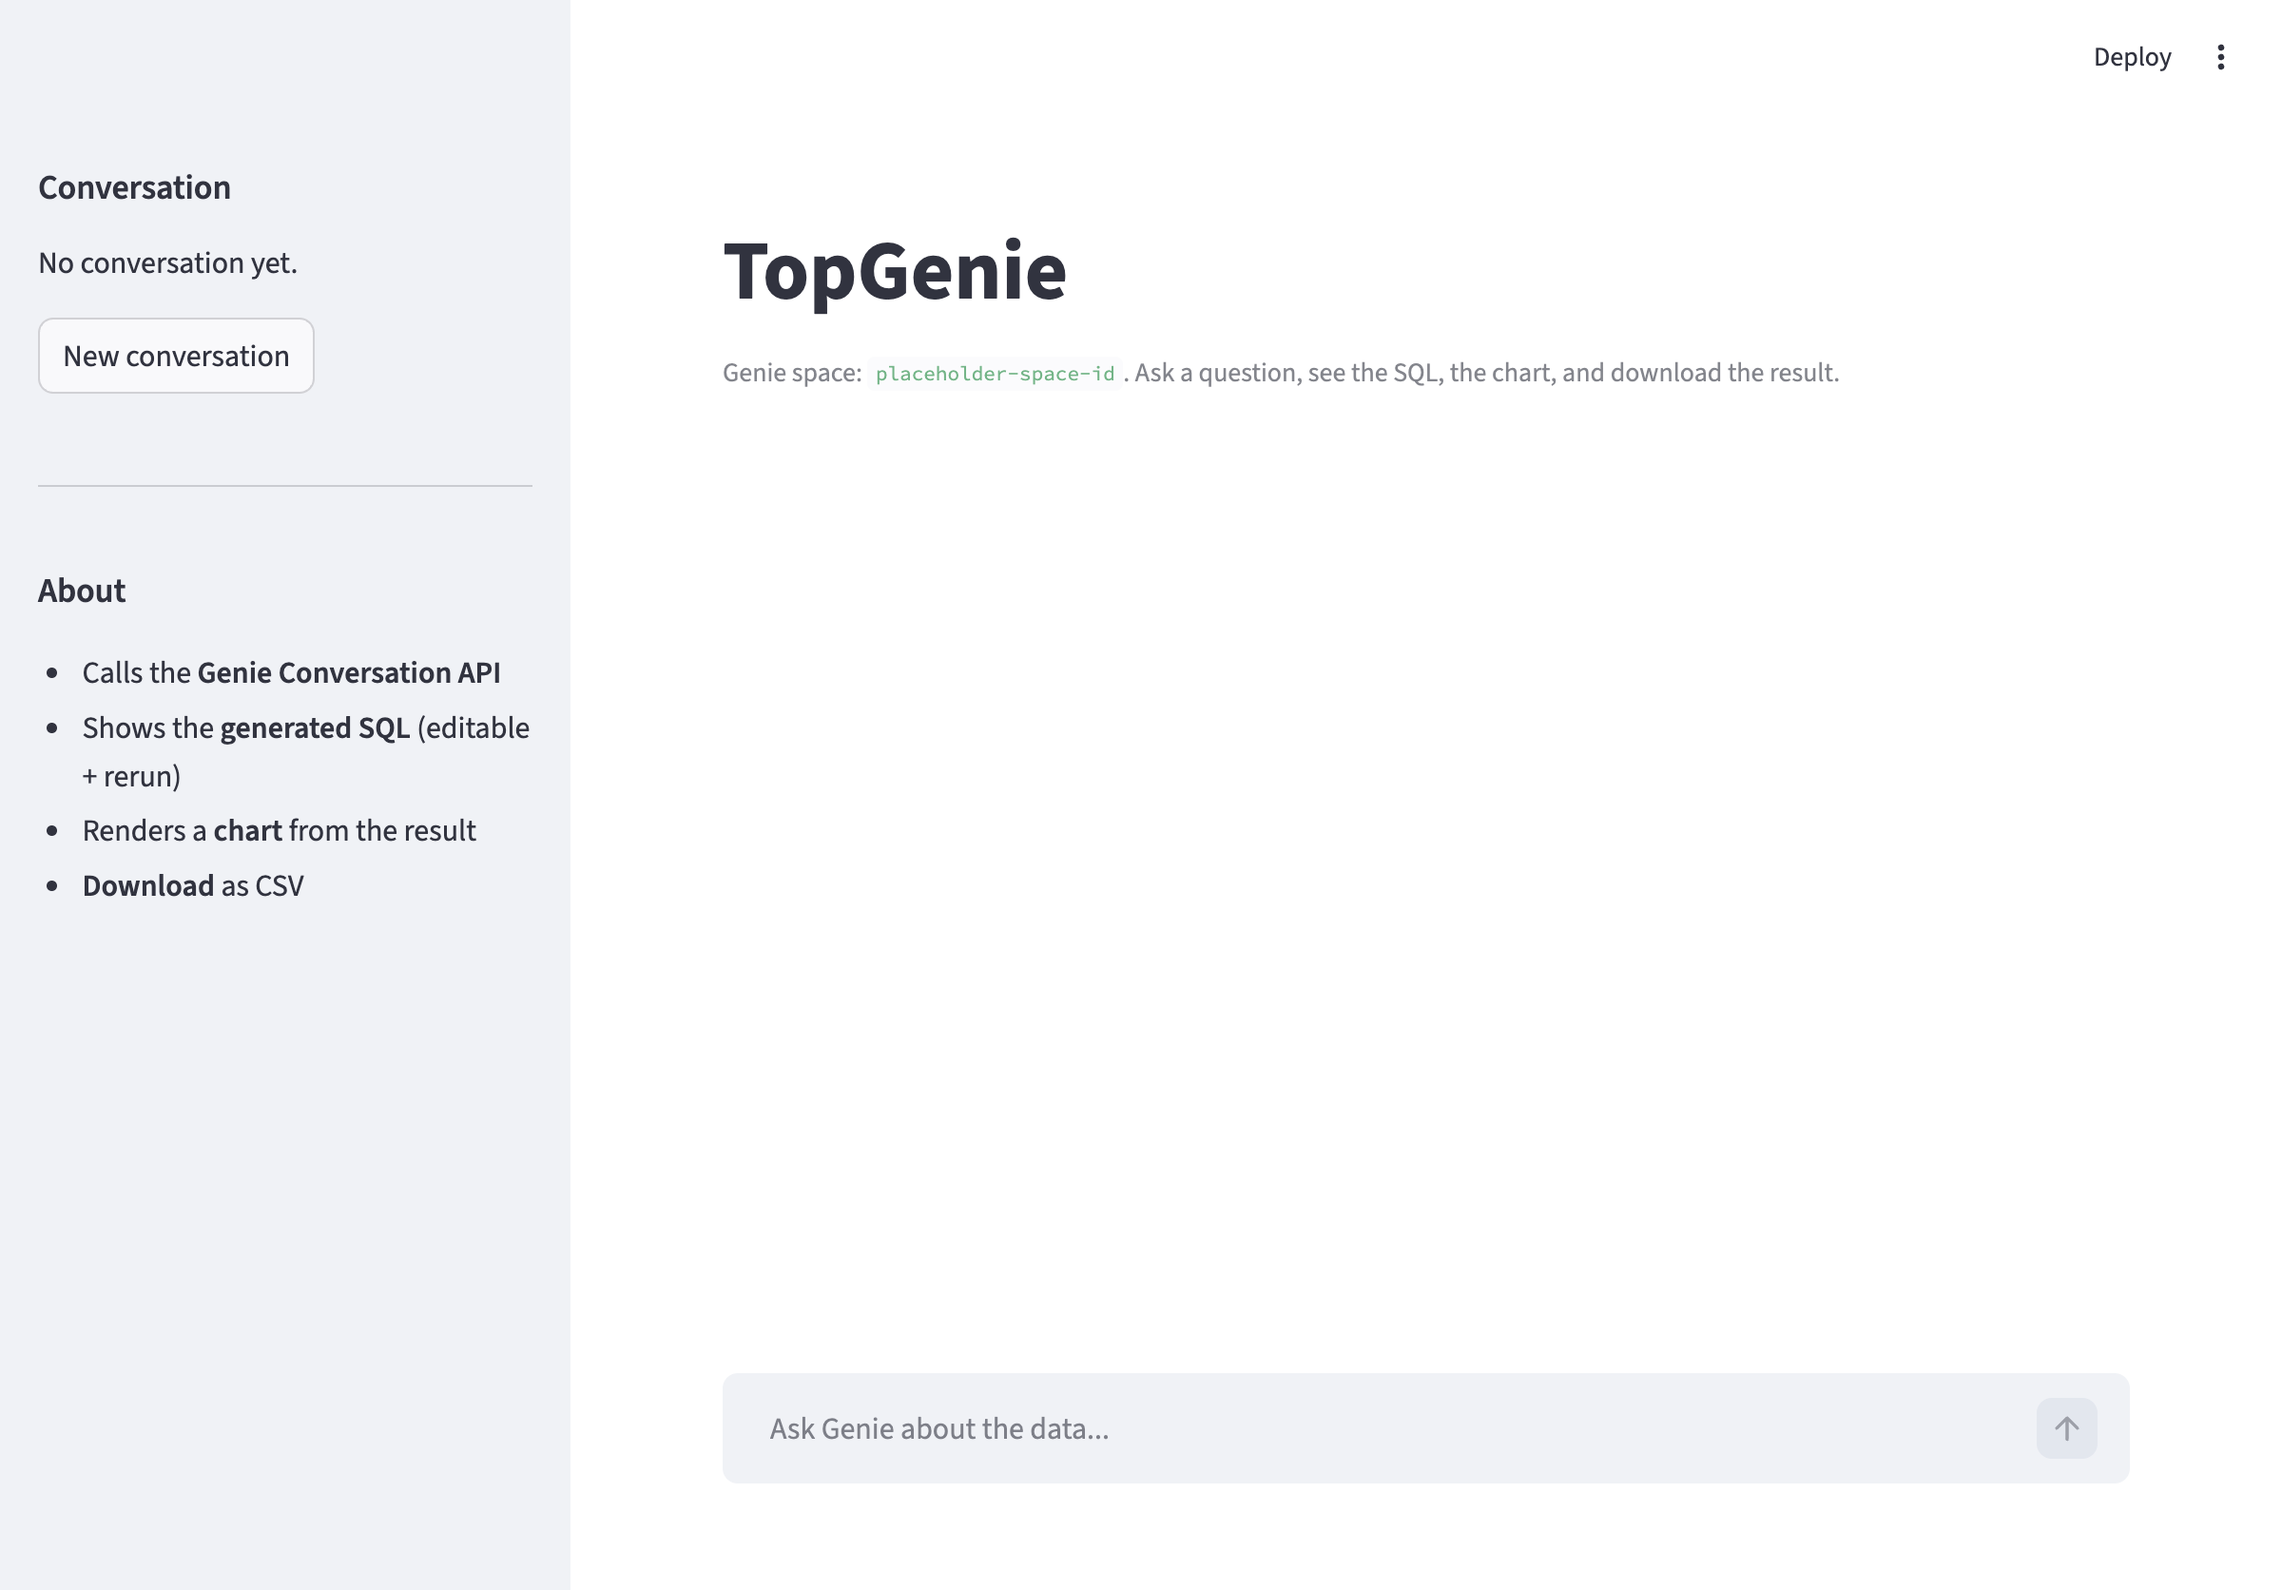
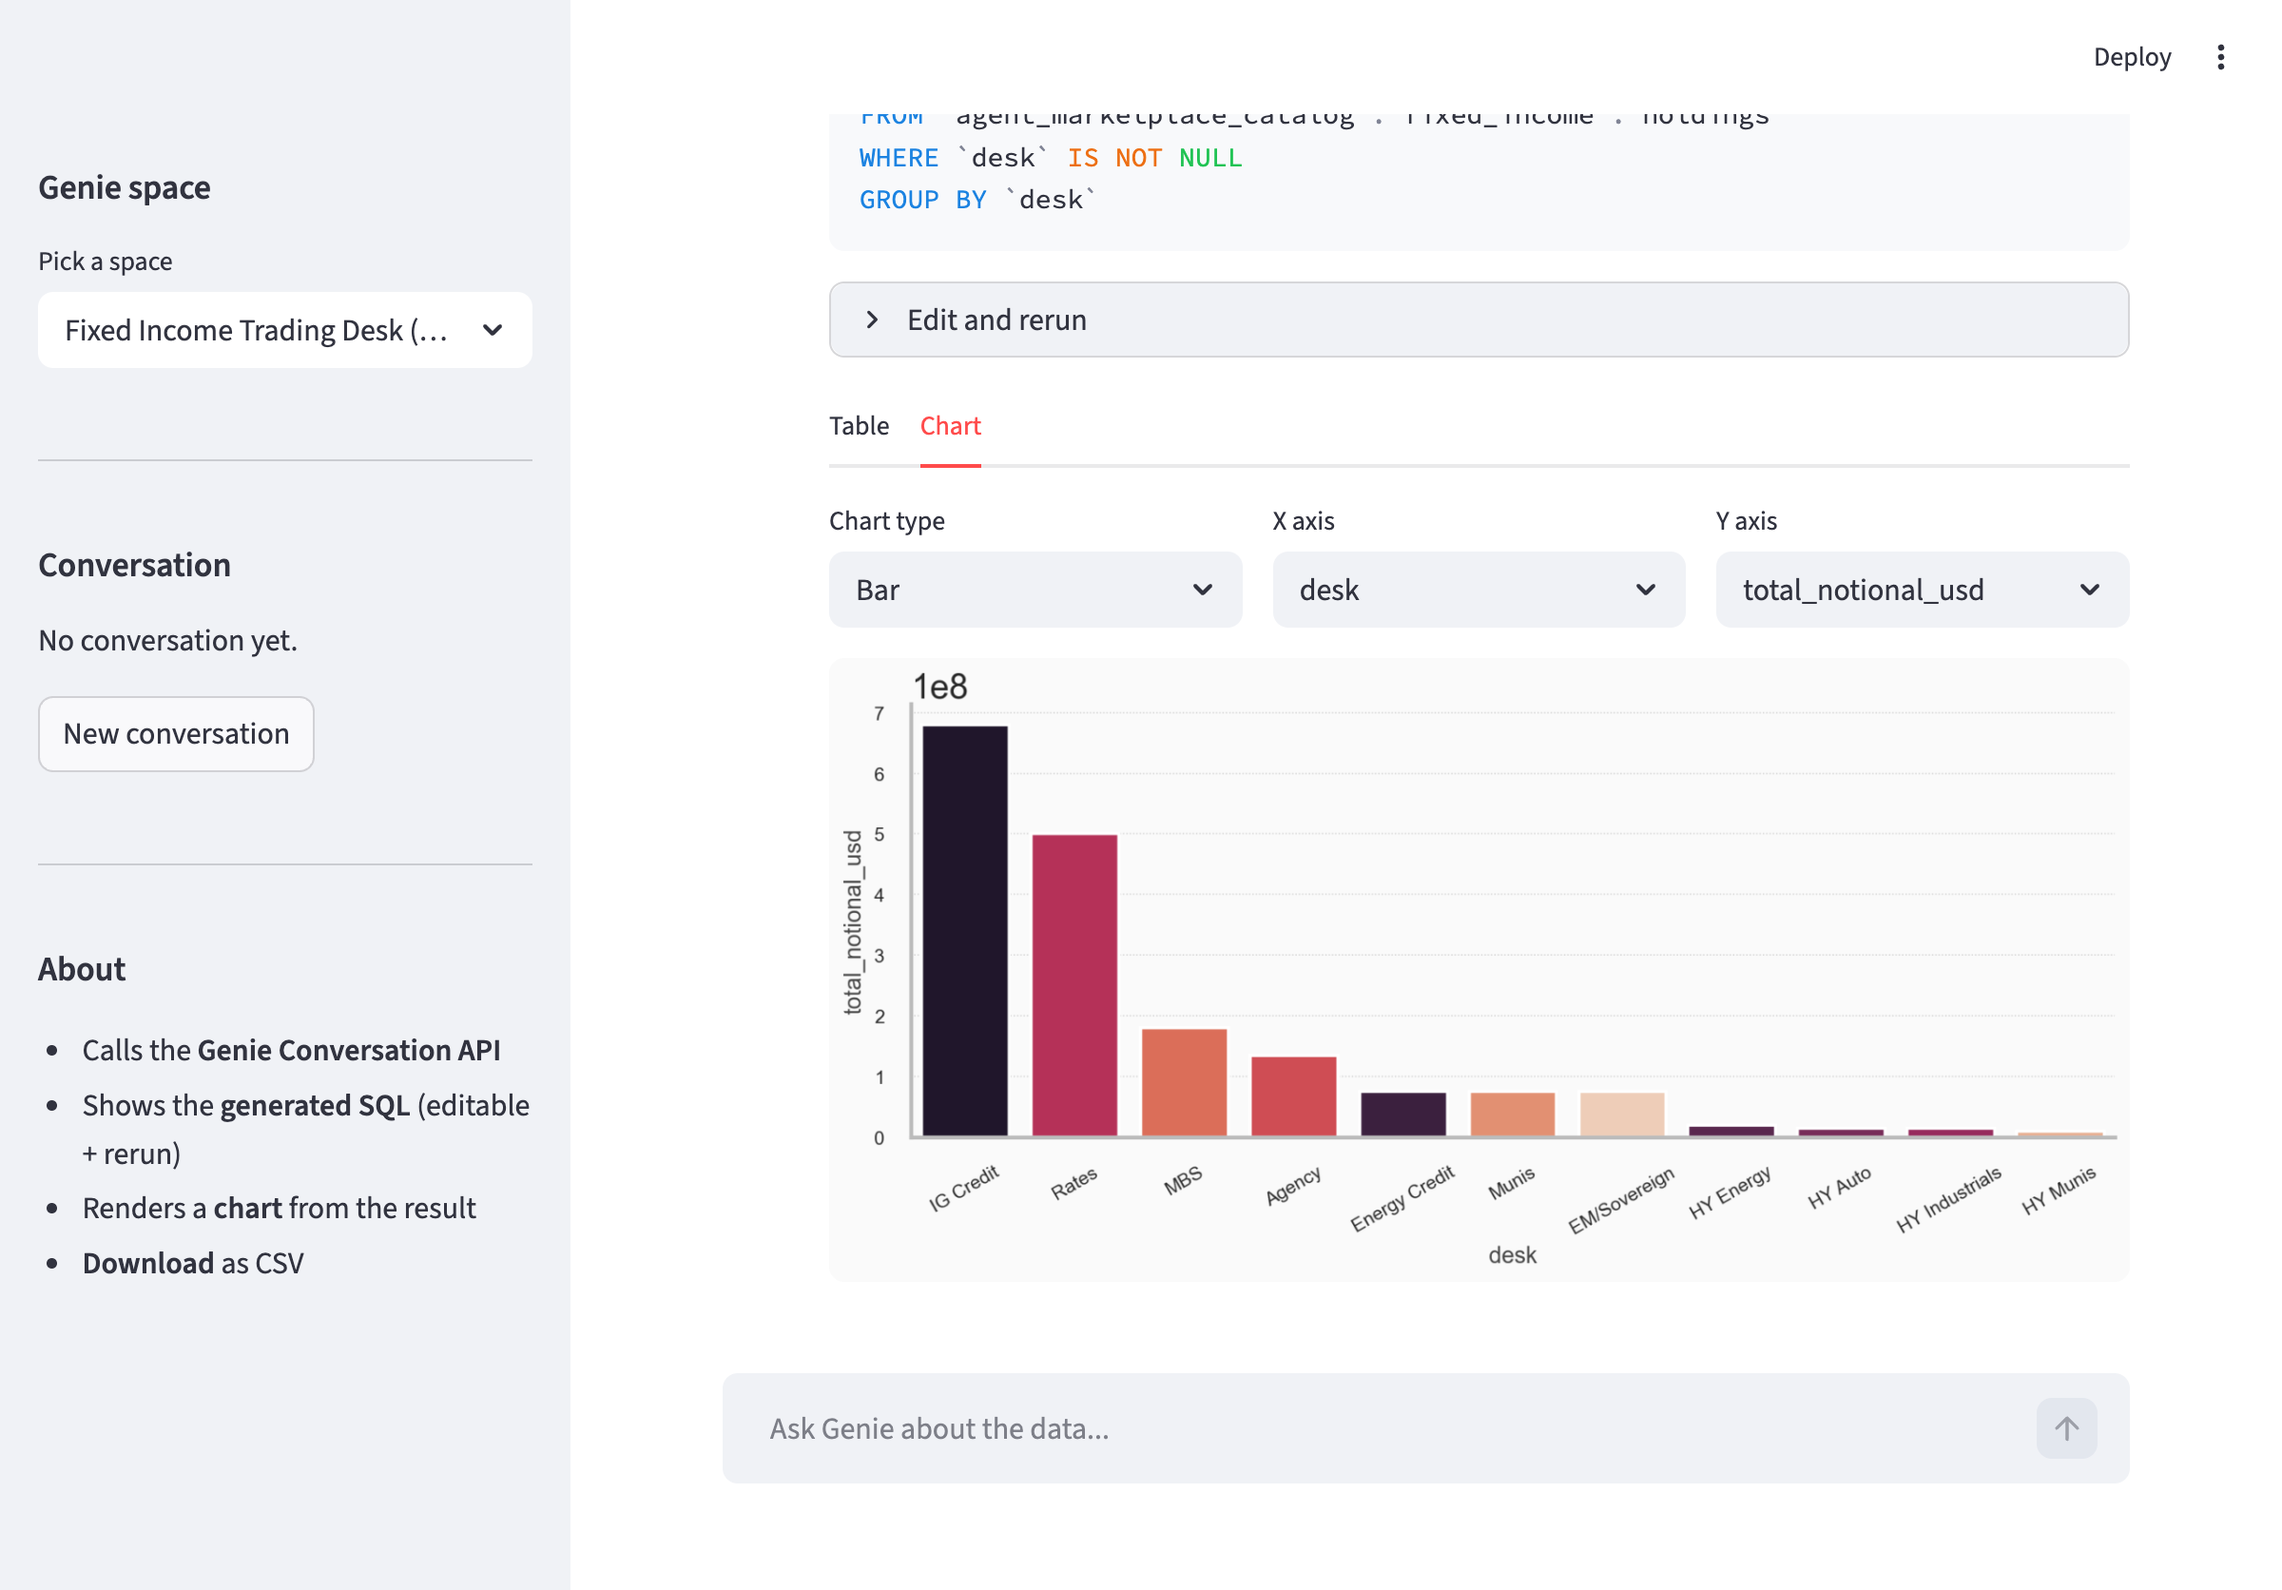
feat: dynamic Genie space picker, sqlparse formatting, seaborn charts

diff --git a/app.py b/app.py
@@ -11,18 +11,29 @@ from __future__ import annotations
 
 import os
 
+import matplotlib.pyplot as plt
 import pandas as pd
+import seaborn as sns
+import sqlparse
 import streamlit as st
 from databricks.sdk import WorkspaceClient
 from databricks.sdk.service.dashboards import MessageStatus
 from databricks.sdk.service.sql import StatementState
 
-SPACE_ID = os.environ["GENIE_SPACE_ID"]
+
+def format_sql(sql: str) -> str:
+    if not sql:
+        return ""
+    try:
+        return sqlparse.format(sql, reindent=True, keyword_case="upper", strip_comments=False)
+    except Exception:
+        return sql
+
+PINNED_SPACE_ID = os.environ.get("GENIE_SPACE_ID")
 WAREHOUSE_ID = os.environ.get("DATABRICKS_WAREHOUSE_ID")
 
 st.set_page_config(page_title="TopGenie", page_icon=":bar_chart:", layout="wide")
 st.title("TopGenie")
-st.caption(f"Genie space: `{SPACE_ID}`. Ask a question, see the SQL, the chart, and download the result.")
 
 
 @st.cache_resource
@@ -32,11 +43,19 @@ def get_client() -> WorkspaceClient:
     return WorkspaceClient(profile=os.environ.get("DATABRICKS_PROFILE", "DEFAULT"))
 
 
-@st.cache_resource
-def get_warehouse_id() -> str:
+@st.cache_data(ttl=60)
+def list_spaces() -> list[tuple[str, str]]:
+    w = get_client()
+    try:
+        return [(s.space_id, s.title or s.space_id) for s in (w.genie.list_spaces().spaces or [])]
+    except Exception:
+        return []
+
+
+def get_warehouse_id(space_id: str) -> str:
     if WAREHOUSE_ID:
         return WAREHOUSE_ID
-    return get_client().genie.get_space(space_id=SPACE_ID).warehouse_id
+    return get_client().genie.get_space(space_id=space_id).warehouse_id
 
 
 def _coerce(v, type_name: str):
@@ -70,22 +89,22 @@ def result_to_df(statement_response) -> pd.DataFrame:
     return pd.DataFrame(coerced, columns=names)
 
 
-def ask_genie(question: str, conversation_id: str | None):
+def ask_genie(space_id: str, question: str, conversation_id: str | None):
     w = get_client()
     if conversation_id:
         return w.genie.create_message_and_wait(
-            space_id=SPACE_ID, conversation_id=conversation_id, content=question
+            space_id=space_id, conversation_id=conversation_id, content=question
         )
-    return w.genie.start_conversation_and_wait(space_id=SPACE_ID, content=question)
+    return w.genie.start_conversation_and_wait(space_id=space_id, content=question)
 
 
-def fetch_result(msg) -> pd.DataFrame | None:
+def fetch_result(space_id: str, msg) -> pd.DataFrame | None:
     qa = next((a for a in (msg.attachments or []) if a.query), None)
     if not qa:
         return None
     w = get_client()
     r = w.genie.get_message_attachment_query_result(
-        space_id=SPACE_ID,
+        space_id=space_id,
         conversation_id=msg.conversation_id,
         message_id=msg.message_id or msg.id,
         attachment_id=qa.attachment_id,
@@ -95,6 +114,24 @@ def fetch_result(msg) -> pd.DataFrame | None:
         st.error(f"Query did not succeed: {sr.status.state}")
         return None
     return result_to_df(sr)
+
+
+sns.set_theme(style="whitegrid", context="talk", palette="rocket")
+
+
+def _format_axis(ax, x_label, y_label, title=None):
+    ax.set_xlabel(x_label, fontsize=11, color="#444")
+    ax.set_ylabel(y_label, fontsize=11, color="#444")
+    if title:
+        ax.set_title(title, fontsize=13, weight="bold", pad=12)
+    ax.tick_params(axis="x", labelsize=9, rotation=30)
+    ax.tick_params(axis="y", labelsize=9)
+    for spine in ("top", "right"):
+        ax.spines[spine].set_visible(False)
+    for spine in ("left", "bottom"):
+        ax.spines[spine].set_color("#bbb")
+    ax.yaxis.grid(True, linestyle=":", linewidth=0.6, color="#ccc")
+    ax.xaxis.grid(False)
 
 
 def render_chart(df: pd.DataFrame, key: str):
@@ -123,15 +160,26 @@ def render_chart(df: pd.DataFrame, key: str):
     y = c3.selectbox("Y axis", y_options, index=y_options.index(y_default) if y_default in y_options else 0, key=f"y_{key}")
 
     try:
-        plot_df = df[[x, y]]
+        plot_df = df[[x, y]].dropna()
+        fig, ax = plt.subplots(figsize=(9, 4.5), dpi=110)
+        fig.patch.set_facecolor("#fafafa")
+        ax.set_facecolor("#fafafa")
+
         if chart_type == "Bar":
-            st.bar_chart(plot_df, x=x, y=y, use_container_width=True)
+            order = plot_df.sort_values(y, ascending=False)[x].tolist()
+            sns.barplot(data=plot_df, x=x, y=y, ax=ax, order=order, hue=x, palette="rocket", legend=False)
         elif chart_type == "Line":
-            st.line_chart(plot_df, x=x, y=y, use_container_width=True)
+            sns.lineplot(data=plot_df, x=x, y=y, ax=ax, marker="o", linewidth=2.2, color="#9C27B0")
         elif chart_type == "Area":
-            st.area_chart(plot_df, x=x, y=y, use_container_width=True)
+            sns.lineplot(data=plot_df, x=x, y=y, ax=ax, linewidth=2.2, color="#9C27B0")
+            ax.fill_between(plot_df[x], plot_df[y], alpha=0.25, color="#9C27B0")
         elif chart_type == "Scatter":
-            st.scatter_chart(plot_df, x=x, y=y, use_container_width=True)
+            sns.scatterplot(data=plot_df, x=x, y=y, ax=ax, s=70, color="#E91E63", edgecolor="white")
+
+        _format_axis(ax, x, y)
+        fig.tight_layout()
+        st.pyplot(fig, use_container_width=True)
+        plt.close(fig)
     except Exception as e:
         st.warning(f"Could not render chart: {e}")
 
@@ -140,8 +188,34 @@ if "history" not in st.session_state:
     st.session_state.history = []
 if "conversation_id" not in st.session_state:
     st.session_state.conversation_id = None
+if "space_id" not in st.session_state:
+    st.session_state.space_id = PINNED_SPACE_ID
 
 with st.sidebar:
+    st.subheader("Genie space")
+    if PINNED_SPACE_ID:
+        st.code(PINNED_SPACE_ID, language=None)
+        st.caption("Pinned via `GENIE_SPACE_ID`.")
+    else:
+        spaces = list_spaces()
+        if spaces:
+            labels = {f"{title} ({sid[:8]}...)": sid for sid, title in spaces}
+            current = next((k for k, v in labels.items() if v == st.session_state.space_id), None)
+            choice = st.selectbox(
+                "Pick a space", list(labels.keys()),
+                index=list(labels.keys()).index(current) if current else 0,
+            )
+            if labels[choice] != st.session_state.space_id:
+                st.session_state.space_id = labels[choice]
+                st.session_state.history = []
+                st.session_state.conversation_id = None
+                st.rerun()
+        else:
+            manual = st.text_input("Genie space ID", value=st.session_state.space_id or "")
+            if manual:
+                st.session_state.space_id = manual
+
+    st.divider()
     st.subheader("Conversation")
     if st.session_state.conversation_id:
         st.code(st.session_state.conversation_id, language=None)
@@ -160,21 +234,27 @@ with st.sidebar:
         "- **Download** as CSV"
     )
 
+SPACE_ID = st.session_state.space_id
+if not SPACE_ID:
+    st.info("Pick a Genie space in the sidebar to start.")
+    st.stop()
+st.caption(f"Genie space: `{SPACE_ID}`. Ask a question, see the SQL, the chart, and download the result.")
+
 prompt = st.chat_input("Ask Genie about the data...")
 if prompt:
     with st.spinner("Asking Genie..."):
         try:
-            msg = ask_genie(prompt, st.session_state.conversation_id)
+            msg = ask_genie(SPACE_ID, prompt, st.session_state.conversation_id)
             st.session_state.conversation_id = msg.conversation_id
             if msg.status != MessageStatus.COMPLETED:
                 st.error(f"Genie returned status {msg.status}")
             else:
                 qa = next((a for a in (msg.attachments or []) if a.query), None)
                 ta = next((a for a in (msg.attachments or []) if a.text), None)
-                df = fetch_result(msg) if qa else None
+                df = fetch_result(SPACE_ID, msg) if qa else None
                 st.session_state.history.append({
                     "question": prompt,
-                    "sql": qa.query.query if qa else None,
+                    "sql": format_sql(qa.query.query) if qa else None,
                     "description": qa.query.description if qa else None,
                     "text": ta.text.content if ta else None,
                     "df": df,
@@ -193,9 +273,11 @@ for i, turn in enumerate(st.session_state.history):
 
         sql = turn.get("sql")
         if sql:
-            with st.expander("Generated SQL", expanded=True):
+            st.markdown("**Generated SQL**")
+            st.code(sql, language="sql")
+            with st.expander("Edit and rerun", expanded=False):
                 edited = st.text_area(
-                    "Edit and rerun",
+                    "SQL",
                     value=sql,
                     height=180,
                     key=f"sql_{i}",
@@ -205,11 +287,11 @@ for i, turn in enumerate(st.session_state.history):
                     w = get_client()
                     try:
                         resp = w.statement_execution.execute_statement(
-                            statement=edited, warehouse_id=get_warehouse_id(), wait_timeout="30s"
+                            statement=edited, warehouse_id=get_warehouse_id(SPACE_ID), wait_timeout="30s"
                         )
                         if resp.status.state == StatementState.SUCCEEDED:
                             st.session_state.history[i]["df"] = result_to_df(resp)
-                            st.session_state.history[i]["sql"] = edited
+                            st.session_state.history[i]["sql"] = format_sql(edited)
                             st.rerun()
                         else:
                             err = resp.status.error.message if resp.status.error else str(resp.status.state)

diff --git a/README.md b/README.md
@@ -26,16 +26,18 @@ git clone https://github.com/philtief/genie-conversation-app.git
 cd genie-conversation-app
 ```
 
-### 2. Configure
+### 2. Configure (optional)
 
-Edit `app.yaml`:
+By default the app lets the user **pick any Genie space they have access to** from a sidebar dropdown (powered by `WorkspaceClient.genie.list_spaces()`). No config needed to try it out.
+
+To pin the app to a single space (e.g. for a customer-facing deployment), set `GENIE_SPACE_ID` in `app.yaml`:
 
 ```yaml
 env:
   - name: GENIE_SPACE_ID
-    value: "<your-genie-space-id>"
+    value: "<your-genie-space-id>"   # optional; sidebar picker shows up if absent
   - name: DATABRICKS_WAREHOUSE_ID
-    value: "<your-warehouse-id>"
+    value: "<your-warehouse-id>"     # optional; falls back to the space's warehouse
 ```
 
 Get the space id from the Genie space URL: `.../genie/rooms/<space-id>?o=...`.
